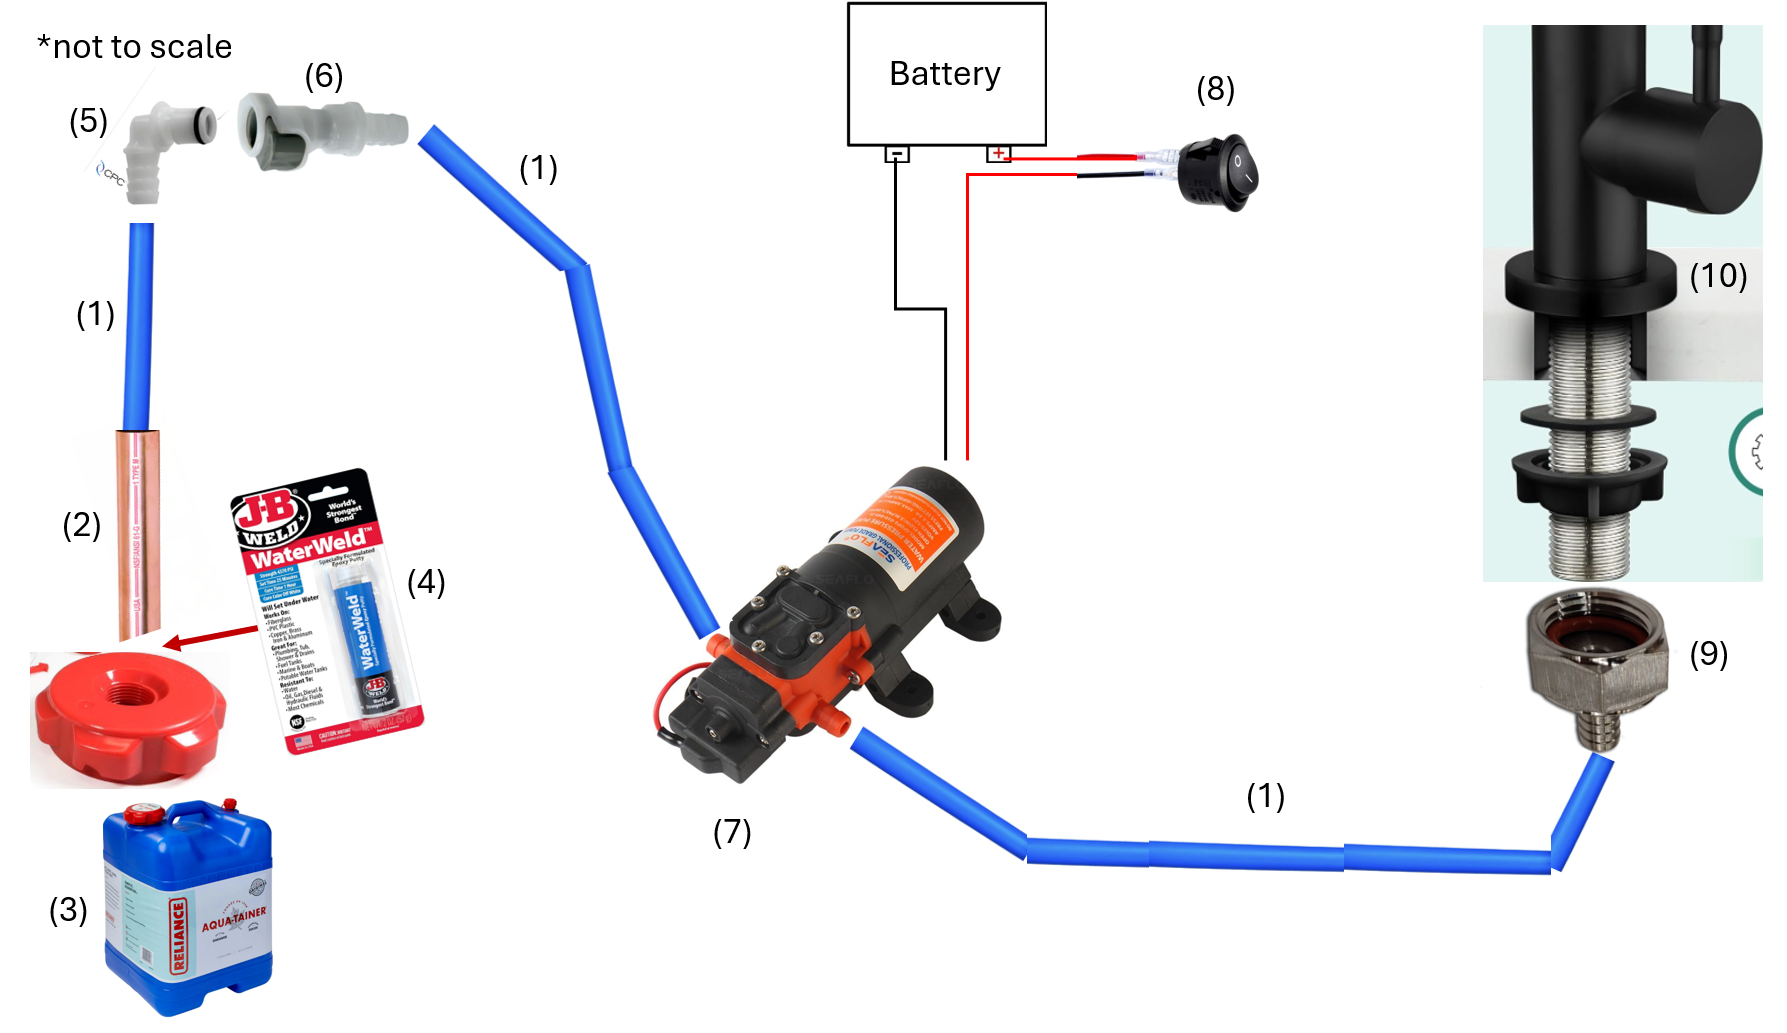
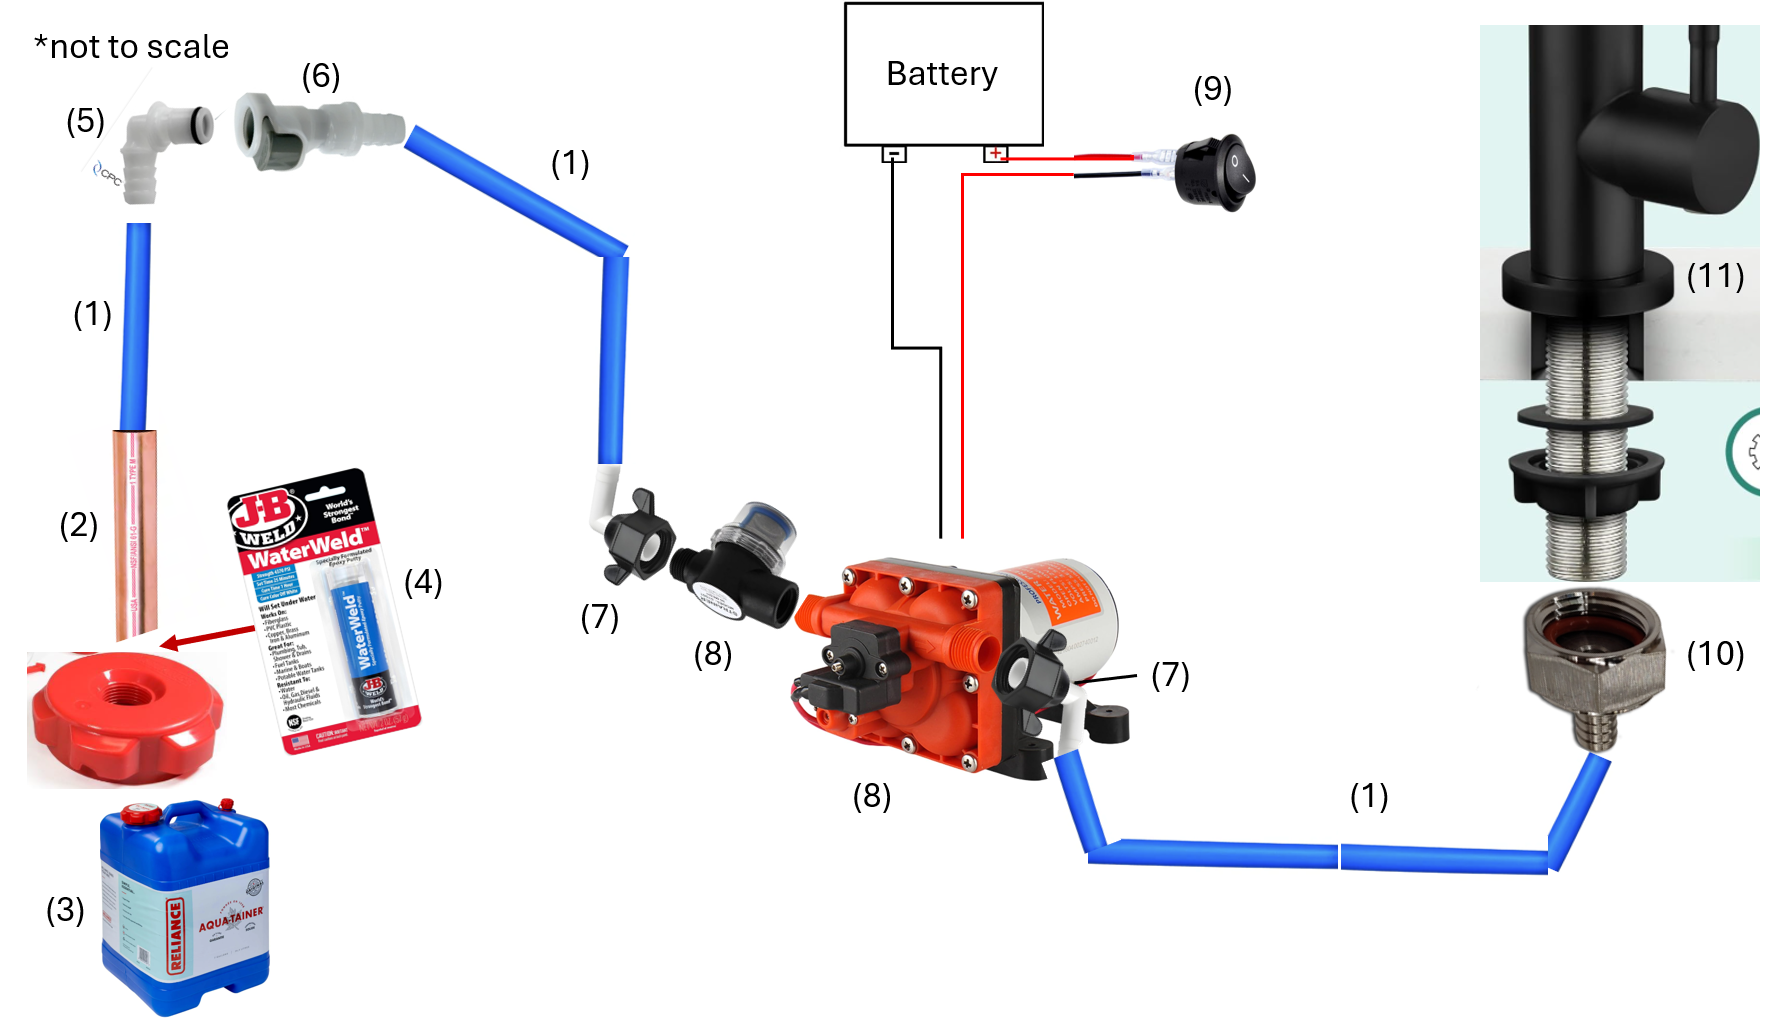
Pump connectors

diff --git a/docs/kitchen/fresh-water-plumbing.md b/docs/kitchen/fresh-water-plumbing.md
@@ -14,10 +14,11 @@ Number | Item
 \#4 | **[JB WaterWeld Putty](https://a.co/d/iEJzFE6)** (many stores)<br/>For attaching copper tube to Aqua-Tainer lid
 \#5 | **[Elbow quick connect](https://www.usplastic.com/catalog/item.aspx?itemid=146406&catid=926)** (from US Plastic)<br/>Stays on the water container lid and is what my quick connect tube plugs into. Elbow style was important to minimize the height (so the tubing goes horizontal from the lid).
 \#6 | **[Quick connect with valve](https://www.usplastic.com/catalog/item.aspx?itemid=146386&catid=926)** (from US Plastic)<br/>Getting a valved version is important so that when you disconnect it, it doesn't spill water out!
-\#7 | **[Seaflo 42 Series water pump](https://www.amazon.com/42-Diaphragm-Reduced-Cycling-Off-Grid/dp/B0D4QGH4MB)** (from Amazon)<br/>You don't want the smaller Seaflo's (they're NOISY). The Seaflo 42 series with the bypass is super quiet without a need for a pressure tank! [See my video showing how quiet it is](https://www.youtube.com/watch?v=YHtri6DsofQ)!
-\#8 | **[Rocker switch](https://www.amazon.com/dp/B07S1MV462)** (from Amazon)<br/>So you can turn the pump off when not using it.
-\#9 | **[1/2" Female NPT/NPS x 3/8" Hose Barb](https://www.brewhardware.com/ProductDetails.asp?ProductCode=NPTswivelHexNut38barb)** (from Brew Hardware)<br/>You need to find a female NPS fitting (with a gasket). NPT doesn't fit onto the base of the sink faucet, T == tapered, and the threads are straight (NPS). I could only find this from Brew Hardware, but it worked and was leak proof!
-\#10 | **[Cold Water Only Faucet](https://www.amazon.com/gp/product/B09WTQZF7K)** (from Amazon)<br/>Getting a cold-water only faucet is nice! Means the handle only moves one way (no hot water hookup).
+\#7 | **[2x SEAFLO NO: 51F05 1/2"-14 FNPT x 3/8" Barbed Angled Universal Pump Fitting](https://www.amazon.com/SEAFLO-NO-Universal-Fitting-ADVENTURE/dp/B0CY6JVJKS)** (from Amazon)<br/>Barbed end fits the 3/8" ID polyethylene tubing, and the threaded end fits the SEAFLO 42 series pump!
+\#8 | **[SEAFLO 42 Series water pump](https://www.amazon.com/42-Diaphragm-Reduced-Cycling-Off-Grid/dp/B0D4QGH4MB)** (from Amazon)<br/>You don't want the smaller Seaflo's (they're NOISY). The SEAFLO 42 series with the bypass is super quiet without a need for a pressure tank! [See my video showing how quiet it is](https://www.youtube.com/watch?v=YHtri6DsofQ)! Includes the strainer.
+\#9 | **[Rocker switch](https://www.amazon.com/dp/B07S1MV462)** (from Amazon)<br/>So you can turn the pump off when not using it.
+\#10 | **[1/2" Female NPT/NPS x 3/8" Hose Barb](https://www.brewhardware.com/ProductDetails.asp?ProductCode=NPTswivelHexNut38barb)** (from Brew Hardware)<br/>You need to find a female NPS fitting (with a gasket). NPT doesn't fit onto the base of the sink faucet, T == tapered, and the threads are straight (NPS). I could only find this from Brew Hardware, but it worked and was leak proof!
+\#11 | **[Cold Water Only Faucet](https://www.amazon.com/gp/product/B09WTQZF7K)** (from Amazon)<br/>Getting a cold-water only faucet is nice! Means the handle only moves one way (no hot water hookup).
 
 ## Tubing
 
